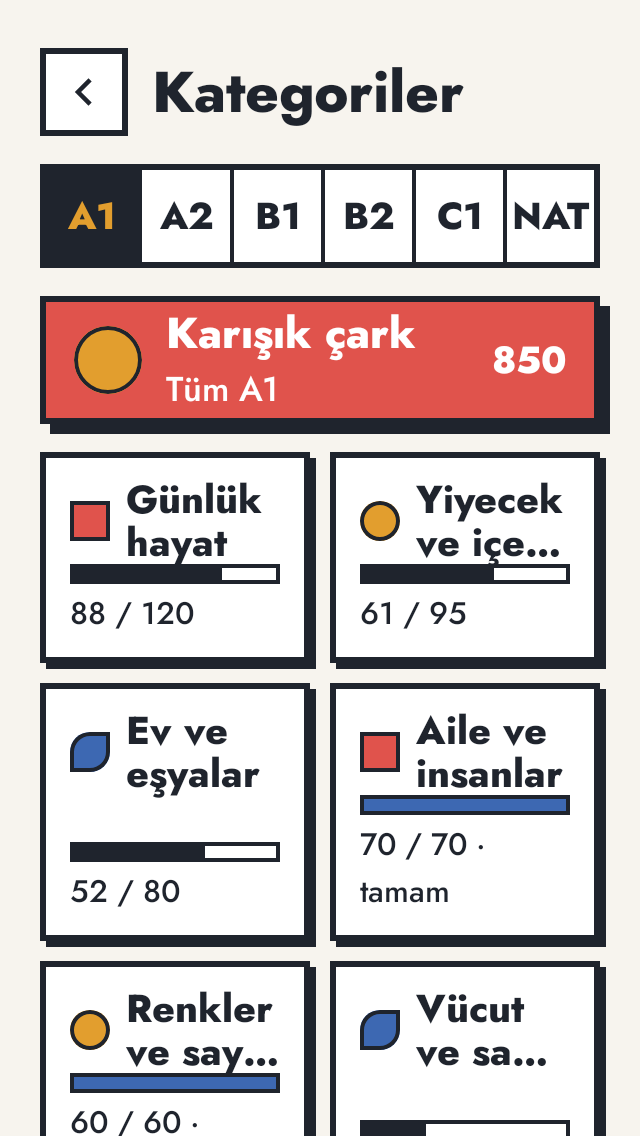
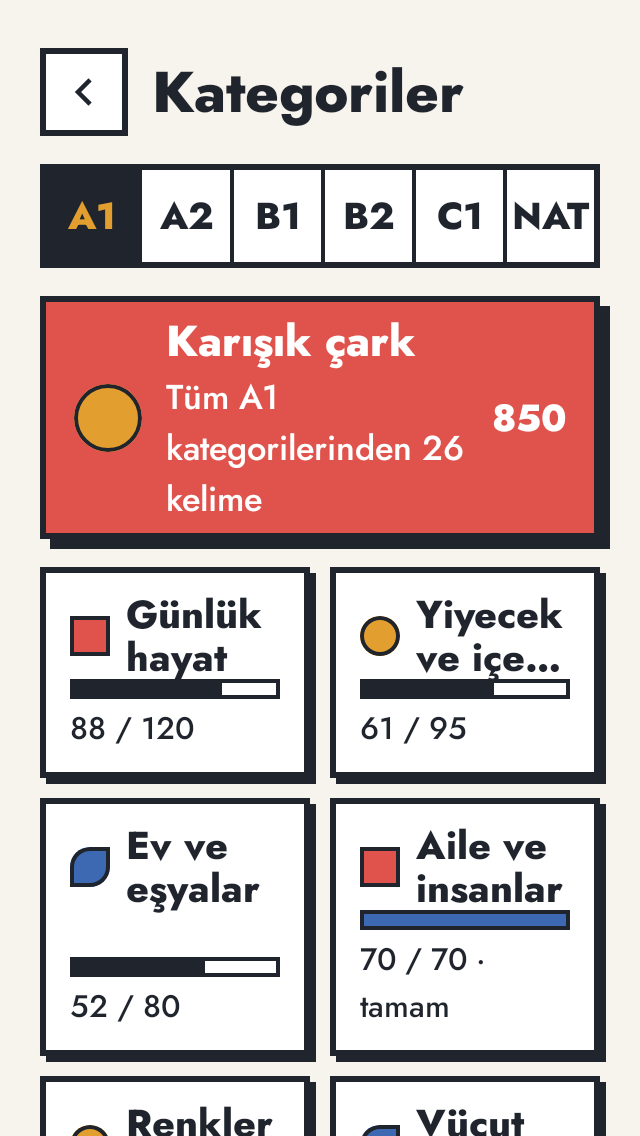
feat(a11y): headings and labels for home, levels and categories
- Titles and section labels are headings; the home gift notice is a labelled dismiss
  button and stays 6 s (screen readers need time to read the live region).
- Level and category cards hide their decorative progress bar (the label says it).
- Categories mixed card and search field use a minimum height so large fonts grow
  them instead of clipping; new 200% goldens for categories and levels.

Changed region(s): [[0.0625, 0.2773, 0.9688, 1.0]]

diff --git a/core/designsystem/src/commonMain/kotlin/dev/talhabayhan/lexi/core/designsystem/component/CategoryCards.kt b/core/designsystem/src/commonMain/kotlin/dev/talhabayhan/lexi/core/designsystem/component/CategoryCards.kt
@@ -8,7 +8,6 @@ import androidx.compose.foundation.layout.PaddingValues
 import androidx.compose.foundation.layout.Row
 import androidx.compose.foundation.layout.fillMaxSize
 import androidx.compose.foundation.layout.fillMaxWidth
-import androidx.compose.foundation.layout.height
 import androidx.compose.foundation.layout.heightIn
 import androidx.compose.foundation.layout.padding
 import androidx.compose.foundation.layout.size
@@ -17,6 +16,8 @@ import androidx.compose.runtime.Composable
 import androidx.compose.ui.Alignment
 import androidx.compose.ui.Modifier
 import androidx.compose.ui.graphics.Color
+import androidx.compose.ui.platform.LocalDensity
+import androidx.compose.ui.semantics.clearAndSetSemantics
 import androidx.compose.ui.text.style.TextOverflow
 import androidx.compose.ui.tooling.preview.Preview
 import androidx.compose.ui.unit.Dp
@@ -41,6 +42,10 @@ public object CategoryCardDefaults {
 
     /** 64: the mixed-wheel banner; its circle is CSS content-box 30 + 2 × 2 border. */
     public val MixedHeight: Dp = 64.dp
+
+    /** System font scale above which a category name may wrap onto more than two lines. */
+    public const val WRAP_FONT_SCALE: Float = 1.5f
+
     internal val MixedPadding: Dp = 14.dp
     internal val MixedMarkerSize: Dp = 34.dp
 }
@@ -87,7 +92,8 @@ public fun CategoryCard(
                 Text(
                     title,
                     style = typography.bodyStrong15.withCssLineHeight(CategoryCardDefaults.NAME_LINE_HEIGHT),
-                    maxLines = 2,
+                    // Two lines at the design and moderate font sizes; at the largest sizes the name may use more.
+                    maxLines = if (LocalDensity.current.fontScale > CategoryCardDefaults.WRAP_FONT_SCALE) 4 else 2,
                     overflow = TextOverflow.Ellipsis,
                     modifier = Modifier.weight(1f),
                 )
@@ -98,7 +104,7 @@ public fun CategoryCard(
             ) {
                 ProgressBar(
                     progress = progress,
-                    modifier = Modifier.fillMaxWidth(),
+                    modifier = Modifier.fillMaxWidth().clearAndSetSemantics {},
                     height = ControlDefaults.ProgressHeightCompact,
                     fillColor = if (complete) colors.blue else colors.ink,
                 )
@@ -110,7 +116,7 @@ public fun CategoryCard(
 
 /**
  * The red "mixed wheel" banner above the category grid: yellow circle, [title] (18/800) with its [subtitle] (13/500)
- * and the [trailing] count (14/800). s5 shadow, 64dp high.
+ * and the [trailing] count (14/800). s5 shadow, 64dp high (at least: it grows with large fonts).
  */
 @Composable
 public fun MixedWheelCard(
@@ -125,14 +131,16 @@ public fun MixedWheelCard(
     val typography = LexiTheme.typography
     PressableSurface(
         onClick = onClick,
-        modifier = modifier.fillMaxWidth().height(CategoryCardDefaults.MixedHeight),
+        modifier = modifier.fillMaxWidth().heightIn(min = CategoryCardDefaults.MixedHeight),
         enabled = enabled,
         color = colors.red,
         shadow = LexiTheme.shadows.s5,
         propagateMinConstraints = true,
     ) {
         Row(
-            modifier = Modifier.fillMaxSize().padding(horizontal = CategoryCardDefaults.MixedPadding),
+            modifier = Modifier
+                .fillMaxSize()
+                .padding(horizontal = CategoryCardDefaults.MixedPadding, vertical = LexiTheme.dimens.gap4),
             horizontalArrangement = Arrangement.spacedBy(LexiTheme.dimens.gap12),
             verticalAlignment = Alignment.CenterVertically,
         ) {

diff --git a/feature/home/src/commonMain/kotlin/dev/talhabayhan/lexi/feature/home/HomeScreen.kt b/feature/home/src/commonMain/kotlin/dev/talhabayhan/lexi/feature/home/HomeScreen.kt
@@ -33,6 +33,7 @@ import androidx.compose.ui.layout.Layout
 import androidx.compose.ui.layout.Placeable
 import androidx.compose.ui.layout.SubcomposeLayout
 import androidx.compose.ui.platform.LocalDensity
+import androidx.compose.ui.semantics.Role
 import androidx.compose.ui.semantics.contentDescription
 import androidx.compose.ui.semantics.semantics
 import androidx.compose.ui.tooling.preview.Preview
@@ -79,6 +80,7 @@ import dev.talhabayhan.lexi.feature.home.generated.resources.home_mode_classic
 import dev.talhabayhan.lexi.feature.home.generated.resources.home_mode_hardcore
 import dev.talhabayhan.lexi.feature.home.generated.resources.home_mode_practice
 import dev.talhabayhan.lexi.feature.home.generated.resources.home_months
+import dev.talhabayhan.lexi.feature.home.generated.resources.home_notice_dismiss
 import dev.talhabayhan.lexi.feature.home.generated.resources.home_play
 import dev.talhabayhan.lexi.feature.home.generated.resources.home_play_badge
 import dev.talhabayhan.lexi.feature.home.generated.resources.home_settings
@@ -246,7 +248,7 @@ private fun HomeContent(
             TopBar(state, onIntent)
             state.dailyGiftNotice?.let { notice ->
                 LaunchedEffect(notice) {
-                    delay(2500L)
+                    delay(NOTICE_VISIBLE_MILLIS)
                     onIntent(HomeIntent.DismissNotice)
                 }
                 val message = when (notice.type) {
@@ -259,7 +261,10 @@ private fun HomeContent(
                     style = ToastStyle.Info,
                     modifier = Modifier
                         .fillMaxWidth()
-                        .clickable { onIntent(HomeIntent.DismissNotice) },
+                        .clickable(
+                            onClickLabel = stringResource(Res.string.home_notice_dismiss),
+                            role = Role.Button,
+                        ) { onIntent(HomeIntent.DismissNotice) },
                 )
             }
             Column(
@@ -377,6 +382,12 @@ private fun HomeColumn(
         }
     }
 }
+
+/**
+ * How long the daily-gift notice stays. Longer than the design's 2.5 s toast: a screen reader needs time to speak it
+ * (the notice is a live region) and the user can still dismiss it with a tap.
+ */
+private const val NOTICE_VISIBLE_MILLIS = 6_000L
 
 /** The home honours the system font size up to [HomeDefaults.MAX_FONT_SCALE] (`screen-map.md`). */
 private fun Density.withCappedFontScale(): Density = if (fontScale <= HomeDefaults.MAX_FONT_SCALE) {

diff --git a/feature/levels/src/commonMain/kotlin/dev/talhabayhan/lexi/feature/levels/LevelSelectScreen.kt b/feature/levels/src/commonMain/kotlin/dev/talhabayhan/lexi/feature/levels/LevelSelectScreen.kt
@@ -37,6 +37,7 @@ import dev.talhabayhan.lexi.core.designsystem.component.SegmentedControl
 import dev.talhabayhan.lexi.core.designsystem.component.StartButton
 import dev.talhabayhan.lexi.core.designsystem.format.formatClock
 import dev.talhabayhan.lexi.core.designsystem.icon.LexiIcons
+import dev.talhabayhan.lexi.core.designsystem.modifier.lexiHeading
 import dev.talhabayhan.lexi.core.designsystem.theme.LexiTheme
 import dev.talhabayhan.lexi.core.designsystem.theme.lexiContentWidth
 import dev.talhabayhan.lexi.core.domain.game.GameMode
@@ -109,7 +110,11 @@ internal fun LevelSelectScreen(
                     contentDescription = stringResource(Res.string.levels_back),
                     onClick = { onIntent(LevelSelectIntent.Back) },
                 )
-                Text(stringResource(Res.string.levels_title), style = LexiTheme.typography.title)
+                Text(
+                    stringResource(Res.string.levels_title),
+                    style = LexiTheme.typography.title,
+                    modifier = Modifier.lexiHeading(),
+                )
             }
             if (state.hasError) {
                 // DESIGN-DEBT: no design for a failed read; the component library's empty state with a retry above
@@ -184,7 +189,11 @@ private fun ModePicker(state: LevelSelectUiState, onIntent: (LevelSelectIntent) 
             horizontalArrangement = Arrangement.SpaceBetween,
             verticalAlignment = Alignment.CenterVertically,
         ) {
-            Text(stringResource(Res.string.levels_mode_label), style = LexiTheme.typography.label12)
+            Text(
+                stringResource(Res.string.levels_mode_label),
+                style = LexiTheme.typography.label12,
+                modifier = Modifier.lexiHeading(),
+            )
             // DESIGN-DEBT: the design has no entry to the categories; a small link on the mode label's line, which
             // keeps every designed element where it is. Compose widens its touch target to the platform minimum.
             // NAT has no category selection (CONTENT.md §5): no link.

diff --git a/feature/home/src/androidHostTest/kotlin/dev/talhabayhan/lexi/feature/home/HomeScreenBehaviourTest.kt b/feature/home/src/androidHostTest/kotlin/dev/talhabayhan/lexi/feature/home/HomeScreenBehaviourTest.kt
@@ -1,7 +1,13 @@
 package dev.talhabayhan.lexi.feature.home
 
+import androidx.compose.ui.semantics.LiveRegionMode
+import androidx.compose.ui.semantics.Role
+import androidx.compose.ui.semantics.SemanticsProperties
 import androidx.compose.ui.test.ComposeUiTest
 import androidx.compose.ui.test.ExperimentalTestApi
+import androidx.compose.ui.test.SemanticsMatcher
+import androidx.compose.ui.test.assert
+import androidx.compose.ui.test.hasText
 import androidx.compose.ui.test.onNodeWithContentDescription
 import androidx.compose.ui.test.onNodeWithText
 import androidx.compose.ui.test.performClick
@@ -107,5 +113,25 @@ class HomeScreenBehaviourTest {
                 onNodeWithText("Sınav paketleri").performClick()
             },
         )
+    }
+
+    @Test
+    fun `the gift notice is a dismiss button with a label`() = runComposeUiTest {
+        val intents = mutableListOf<HomeIntent>()
+        setContent {
+            LexiTheme(reducedMotion = true) {
+                HomeScreen(
+                    HomeSampleState.copy(dailyGiftNotice = DailyGiftNotice(DailyGiftNoticeType.Daily, 1)),
+                    onIntent = { intents += it },
+                )
+            }
+        }
+
+        onNode(hasText("Günün hediyesi", substring = true))
+            .assert(SemanticsMatcher.expectValue(SemanticsProperties.Role, Role.Button))
+            .assert(SemanticsMatcher.expectValue(SemanticsProperties.LiveRegion, LiveRegionMode.Polite))
+            .performClick()
+
+        assertEquals(listOf<HomeIntent>(HomeIntent.DismissNotice), intents)
     }
 }

diff --git a/core/designsystem/src/commonMain/kotlin/dev/talhabayhan/lexi/core/designsystem/component/Cards.kt b/core/designsystem/src/commonMain/kotlin/dev/talhabayhan/lexi/core/designsystem/component/Cards.kt
@@ -22,6 +22,7 @@ import androidx.compose.ui.layout.Layout
 import androidx.compose.ui.layout.layout
 import androidx.compose.ui.platform.LocalDensity
 import androidx.compose.ui.semantics.Role
+import androidx.compose.ui.semantics.clearAndSetSemantics
 import androidx.compose.ui.semantics.selected
 import androidx.compose.ui.semantics.semantics
 import androidx.compose.ui.text.TextStyle
@@ -173,9 +174,10 @@ public fun LevelCard(
             }
             Text(subtitle, style = typography.caption14SemiBold, color = content)
             Column(Modifier.fillMaxWidth(), verticalArrangement = Arrangement.spacedBy(LexiTheme.dimens.gap4)) {
+                // Decorative: the progress label below says the same in words and the card is one radio button.
                 ProgressBar(
                     progress = progress,
-                    modifier = Modifier.fillMaxWidth().borderOverflow(LexiTheme.borders.thin),
+                    modifier = Modifier.fillMaxWidth().borderOverflow(LexiTheme.borders.thin).clearAndSetSemantics {},
                     borderColor = lines,
                     trackColor = if (selected) colors.white else Color.Transparent,
                     fillColor = if (selected) colors.ink else colors.blue,

diff --git a/feature/levels/src/androidHostTest/kotlin/dev/talhabayhan/lexi/feature/levels/CategoriesA11yTest.kt b/feature/levels/src/androidHostTest/kotlin/dev/talhabayhan/lexi/feature/levels/CategoriesA11yTest.kt
@@ -1,0 +1,28 @@
+package dev.talhabayhan.lexi.feature.levels
+
+import androidx.compose.ui.semantics.SemanticsProperties
+import androidx.compose.ui.test.ExperimentalTestApi
+import androidx.compose.ui.test.SemanticsMatcher
+import androidx.compose.ui.test.assertAny
+import androidx.compose.ui.test.hasText
+import androidx.compose.ui.test.runComposeUiTest
+import dev.talhabayhan.lexi.core.designsystem.theme.LexiTheme
+import org.junit.Test
+import org.junit.runner.RunWith
+import org.robolectric.RobolectricTestRunner
+import org.robolectric.annotation.Config
+import org.robolectric.annotation.GraphicsMode
+
+/** Screen-reader semantics: the screen title is a heading. */
+@OptIn(ExperimentalTestApi::class)
+@RunWith(RobolectricTestRunner::class)
+@GraphicsMode(GraphicsMode.Mode.NATIVE)
+@Config(sdk = [36], qualifiers = "tr-w390dp-h844dp-xhdpi")
+class CategoriesA11yTest {
+    @Test
+    fun `the title is a heading`() = runComposeUiTest {
+        setContent { LexiTheme(reducedMotion = true) { CategoriesScreen(CategoriesSampleState, onIntent = {}) } }
+
+        onAllNodes(SemanticsMatcher.keyIsDefined(SemanticsProperties.Heading)).assertAny(hasText("Kategoriler"))
+    }
+}

diff --git a/feature/levels/src/androidHostTest/kotlin/dev/talhabayhan/lexi/feature/levels/LevelsA11yTest.kt b/feature/levels/src/androidHostTest/kotlin/dev/talhabayhan/lexi/feature/levels/LevelsA11yTest.kt
@@ -1,0 +1,28 @@
+package dev.talhabayhan.lexi.feature.levels
+
+import androidx.compose.ui.semantics.SemanticsProperties
+import androidx.compose.ui.test.ExperimentalTestApi
+import androidx.compose.ui.test.SemanticsMatcher
+import androidx.compose.ui.test.assertAny
+import androidx.compose.ui.test.hasText
+import androidx.compose.ui.test.runComposeUiTest
+import dev.talhabayhan.lexi.core.designsystem.theme.LexiTheme
+import org.junit.Test
+import org.junit.runner.RunWith
+import org.robolectric.RobolectricTestRunner
+import org.robolectric.annotation.Config
+import org.robolectric.annotation.GraphicsMode
+
+/** Screen-reader semantics: the screen title is a heading. */
+@OptIn(ExperimentalTestApi::class)
+@RunWith(RobolectricTestRunner::class)
+@GraphicsMode(GraphicsMode.Mode.NATIVE)
+@Config(sdk = [36], qualifiers = "tr-w390dp-h844dp-xhdpi")
+class LevelsA11yTest {
+    @Test
+    fun `the title is a heading`() = runComposeUiTest {
+        setContent { LexiTheme(reducedMotion = true) { LevelSelectScreen(LevelSelectSampleState, onIntent = {}) } }
+
+        onAllNodes(SemanticsMatcher.keyIsDefined(SemanticsProperties.Heading)).assertAny(hasText("Seviyeni seç"))
+    }
+}

diff --git a/feature/home/src/androidHostTest/kotlin/dev/talhabayhan/lexi/feature/home/ExamPacksA11yTest.kt b/feature/home/src/androidHostTest/kotlin/dev/talhabayhan/lexi/feature/home/ExamPacksA11yTest.kt
@@ -1,0 +1,28 @@
+package dev.talhabayhan.lexi.feature.home
+
+import androidx.compose.ui.semantics.SemanticsProperties
+import androidx.compose.ui.test.ExperimentalTestApi
+import androidx.compose.ui.test.SemanticsMatcher
+import androidx.compose.ui.test.assertAny
+import androidx.compose.ui.test.hasText
+import androidx.compose.ui.test.runComposeUiTest
+import dev.talhabayhan.lexi.core.designsystem.theme.LexiTheme
+import org.junit.Test
+import org.junit.runner.RunWith
+import org.robolectric.RobolectricTestRunner
+import org.robolectric.annotation.Config
+import org.robolectric.annotation.GraphicsMode
+
+/** Screen-reader semantics: the screen title is a heading. */
+@OptIn(ExperimentalTestApi::class)
+@RunWith(RobolectricTestRunner::class)
+@GraphicsMode(GraphicsMode.Mode.NATIVE)
+@Config(sdk = [36], qualifiers = "tr-w390dp-h844dp-xhdpi")
+class ExamPacksA11yTest {
+    @Test
+    fun `the title is a heading`() = runComposeUiTest {
+        setContent { LexiTheme(reducedMotion = true) { ExamPacksScreen(onBack = {}) } }
+
+        onAllNodes(SemanticsMatcher.keyIsDefined(SemanticsProperties.Heading)).assertAny(hasText("Sınav paketleri"))
+    }
+}

diff --git a/feature/home/src/commonMain/kotlin/dev/talhabayhan/lexi/feature/home/ExamPacksScreen.kt b/feature/home/src/commonMain/kotlin/dev/talhabayhan/lexi/feature/home/ExamPacksScreen.kt
@@ -18,6 +18,7 @@ import androidx.compose.ui.tooling.preview.Preview
 import dev.talhabayhan.lexi.core.designsystem.component.EmptyState
 import dev.talhabayhan.lexi.core.designsystem.component.NavSquareButton
 import dev.talhabayhan.lexi.core.designsystem.icon.LexiIcons
+import dev.talhabayhan.lexi.core.designsystem.modifier.lexiHeading
 import dev.talhabayhan.lexi.core.designsystem.theme.LexiTheme
 import dev.talhabayhan.lexi.core.designsystem.theme.lexiContentWidth
 import dev.talhabayhan.lexi.feature.home.generated.resources.Res
@@ -56,7 +57,11 @@ internal fun ExamPacksScreen(onBack: () -> Unit, modifier: Modifier = Modifier) 
                 contentDescription = stringResource(Res.string.home_back),
                 onClick = onBack,
             )
-            Text(stringResource(Res.string.home_tile_exams), style = LexiTheme.typography.title)
+            Text(
+                stringResource(Res.string.home_tile_exams),
+                style = LexiTheme.typography.title,
+                modifier = Modifier.lexiHeading(),
+            )
         }
         EmptyState(stringResource(Res.string.home_exams_soon), Modifier.fillMaxWidth())
     }

diff --git a/feature/levels/src/commonMain/kotlin/dev/talhabayhan/lexi/feature/levels/CategoriesScreen.kt b/feature/levels/src/commonMain/kotlin/dev/talhabayhan/lexi/feature/levels/CategoriesScreen.kt
@@ -31,6 +31,7 @@ import dev.talhabayhan.lexi.core.designsystem.component.NavSquareButton
 import dev.talhabayhan.lexi.core.designsystem.component.Segment
 import dev.talhabayhan.lexi.core.designsystem.component.SegmentedControl
 import dev.talhabayhan.lexi.core.designsystem.icon.LexiIcons
+import dev.talhabayhan.lexi.core.designsystem.modifier.lexiHeading
 import dev.talhabayhan.lexi.core.designsystem.theme.LexiTheme
 import dev.talhabayhan.lexi.core.designsystem.theme.lexiContentWidth
 import dev.talhabayhan.lexi.core.domain.model.CategoryId
@@ -83,7 +84,11 @@ internal fun CategoriesScreen(
                 contentDescription = stringResource(Res.string.levels_back),
                 onClick = { onIntent(CategoriesIntent.Back) },
             )
-            Text(stringResource(Res.string.categories_title), style = LexiTheme.typography.title)
+            Text(
+                stringResource(Res.string.categories_title),
+                style = LexiTheme.typography.title,
+                modifier = Modifier.lexiHeading(),
+            )
         }
         SegmentedControl(
             segments = Level.entries.map { Segment(it.name) },

diff --git a/core/designsystem/src/commonMain/kotlin/dev/talhabayhan/lexi/core/designsystem/component/SearchField.kt b/core/designsystem/src/commonMain/kotlin/dev/talhabayhan/lexi/core/designsystem/component/SearchField.kt
@@ -8,7 +8,7 @@ import androidx.compose.foundation.layout.Column
 import androidx.compose.foundation.layout.PaddingValues
 import androidx.compose.foundation.layout.Row
 import androidx.compose.foundation.layout.fillMaxWidth
-import androidx.compose.foundation.layout.height
+import androidx.compose.foundation.layout.heightIn
 import androidx.compose.foundation.layout.padding
 import androidx.compose.foundation.layout.size
 import androidx.compose.foundation.text.BasicTextField
@@ -68,7 +68,7 @@ public fun SearchField(
         state = state,
         modifier = modifier
             .fillMaxWidth()
-            .height(SearchFieldDefaults.Height)
+            .heightIn(min = SearchFieldDefaults.Height)
             .lexiSurface(colors.white, BorderStroke(LexiTheme.borders.regular, colors.ink))
             .padding(SearchFieldDefaults.Padding)
             .semantics { contentDescription = placeholder },

diff --git a/feature/levels/src/androidHostTest/kotlin/dev/talhabayhan/lexi/feature/levels/LevelSelectScreenshotTest.kt b/feature/levels/src/androidHostTest/kotlin/dev/talhabayhan/lexi/feature/levels/LevelSelectScreenshotTest.kt
@@ -99,6 +99,11 @@ class LevelSelectScreenshotTest {
     @Config(qualifiers = "tr-w600dp-h960dp-mdpi", fontScale = 1.3f)
     fun w600h960FontScale130() = capture("LevelSelect_w600h960_fontScale130")
 
+    /** Largest system font size (accessibility): nothing may clip or overlap. */
+    @Test
+    @Config(qualifiers = "tr-w390dp-h844dp-xhdpi", fontScale = 2.0f)
+    fun fontScale200() = capture("LevelSelect_fontScale200")
+
     private fun capture(name: String) {
         captureRoboImage("src/androidHostTest/screenshots/$name.png") {
             LexiTheme(reducedMotion = false) {
